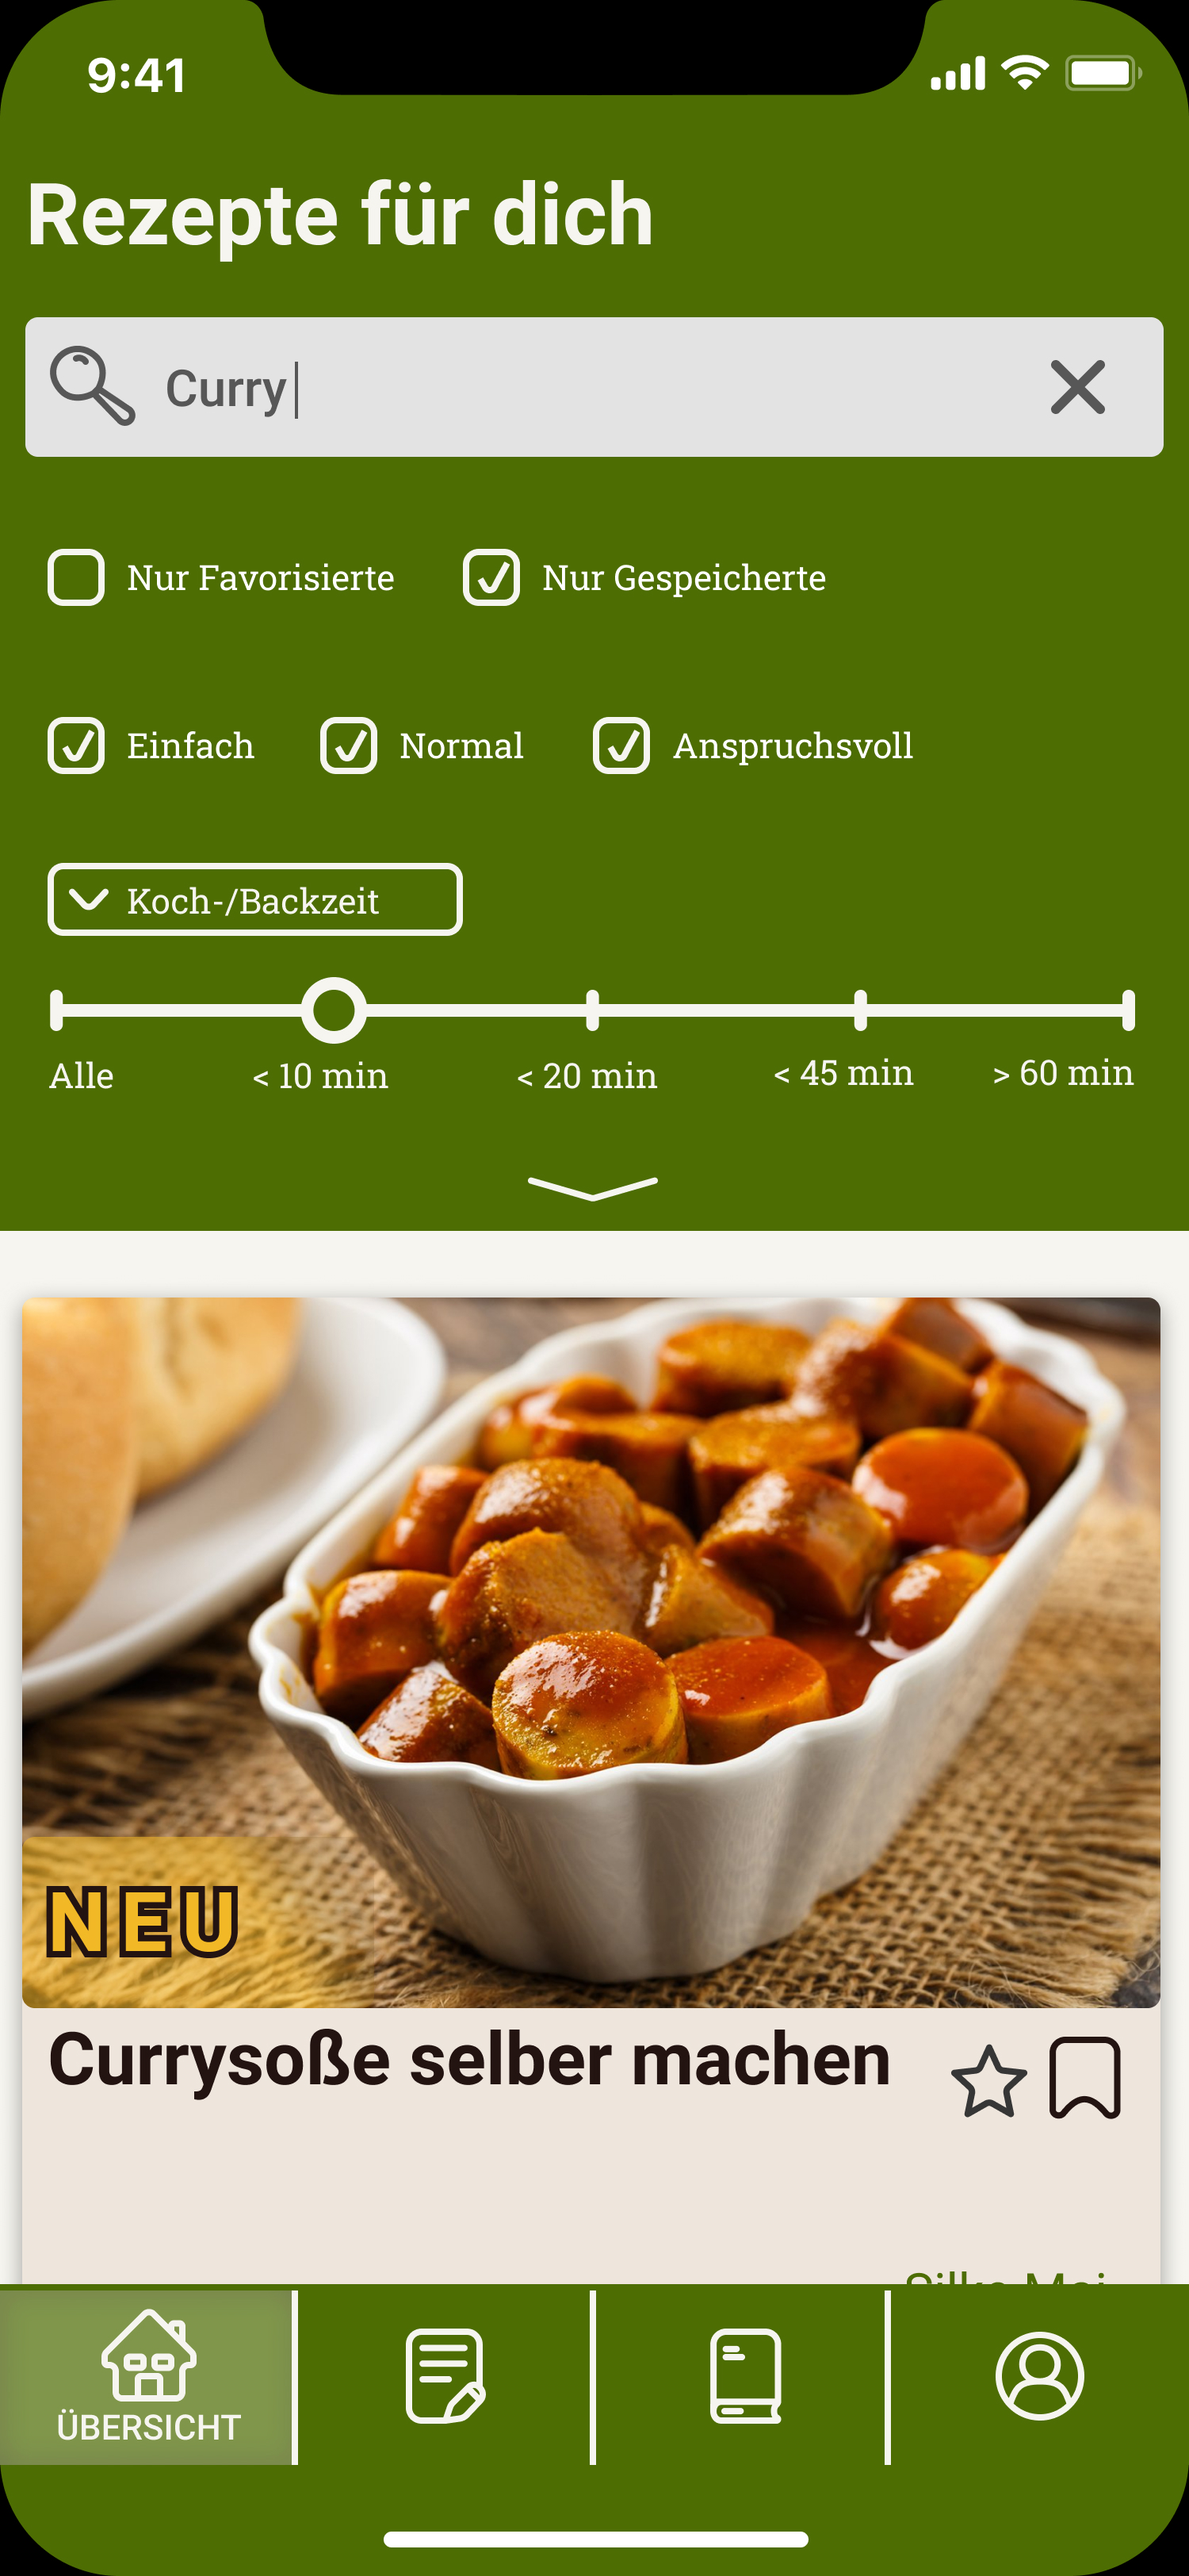
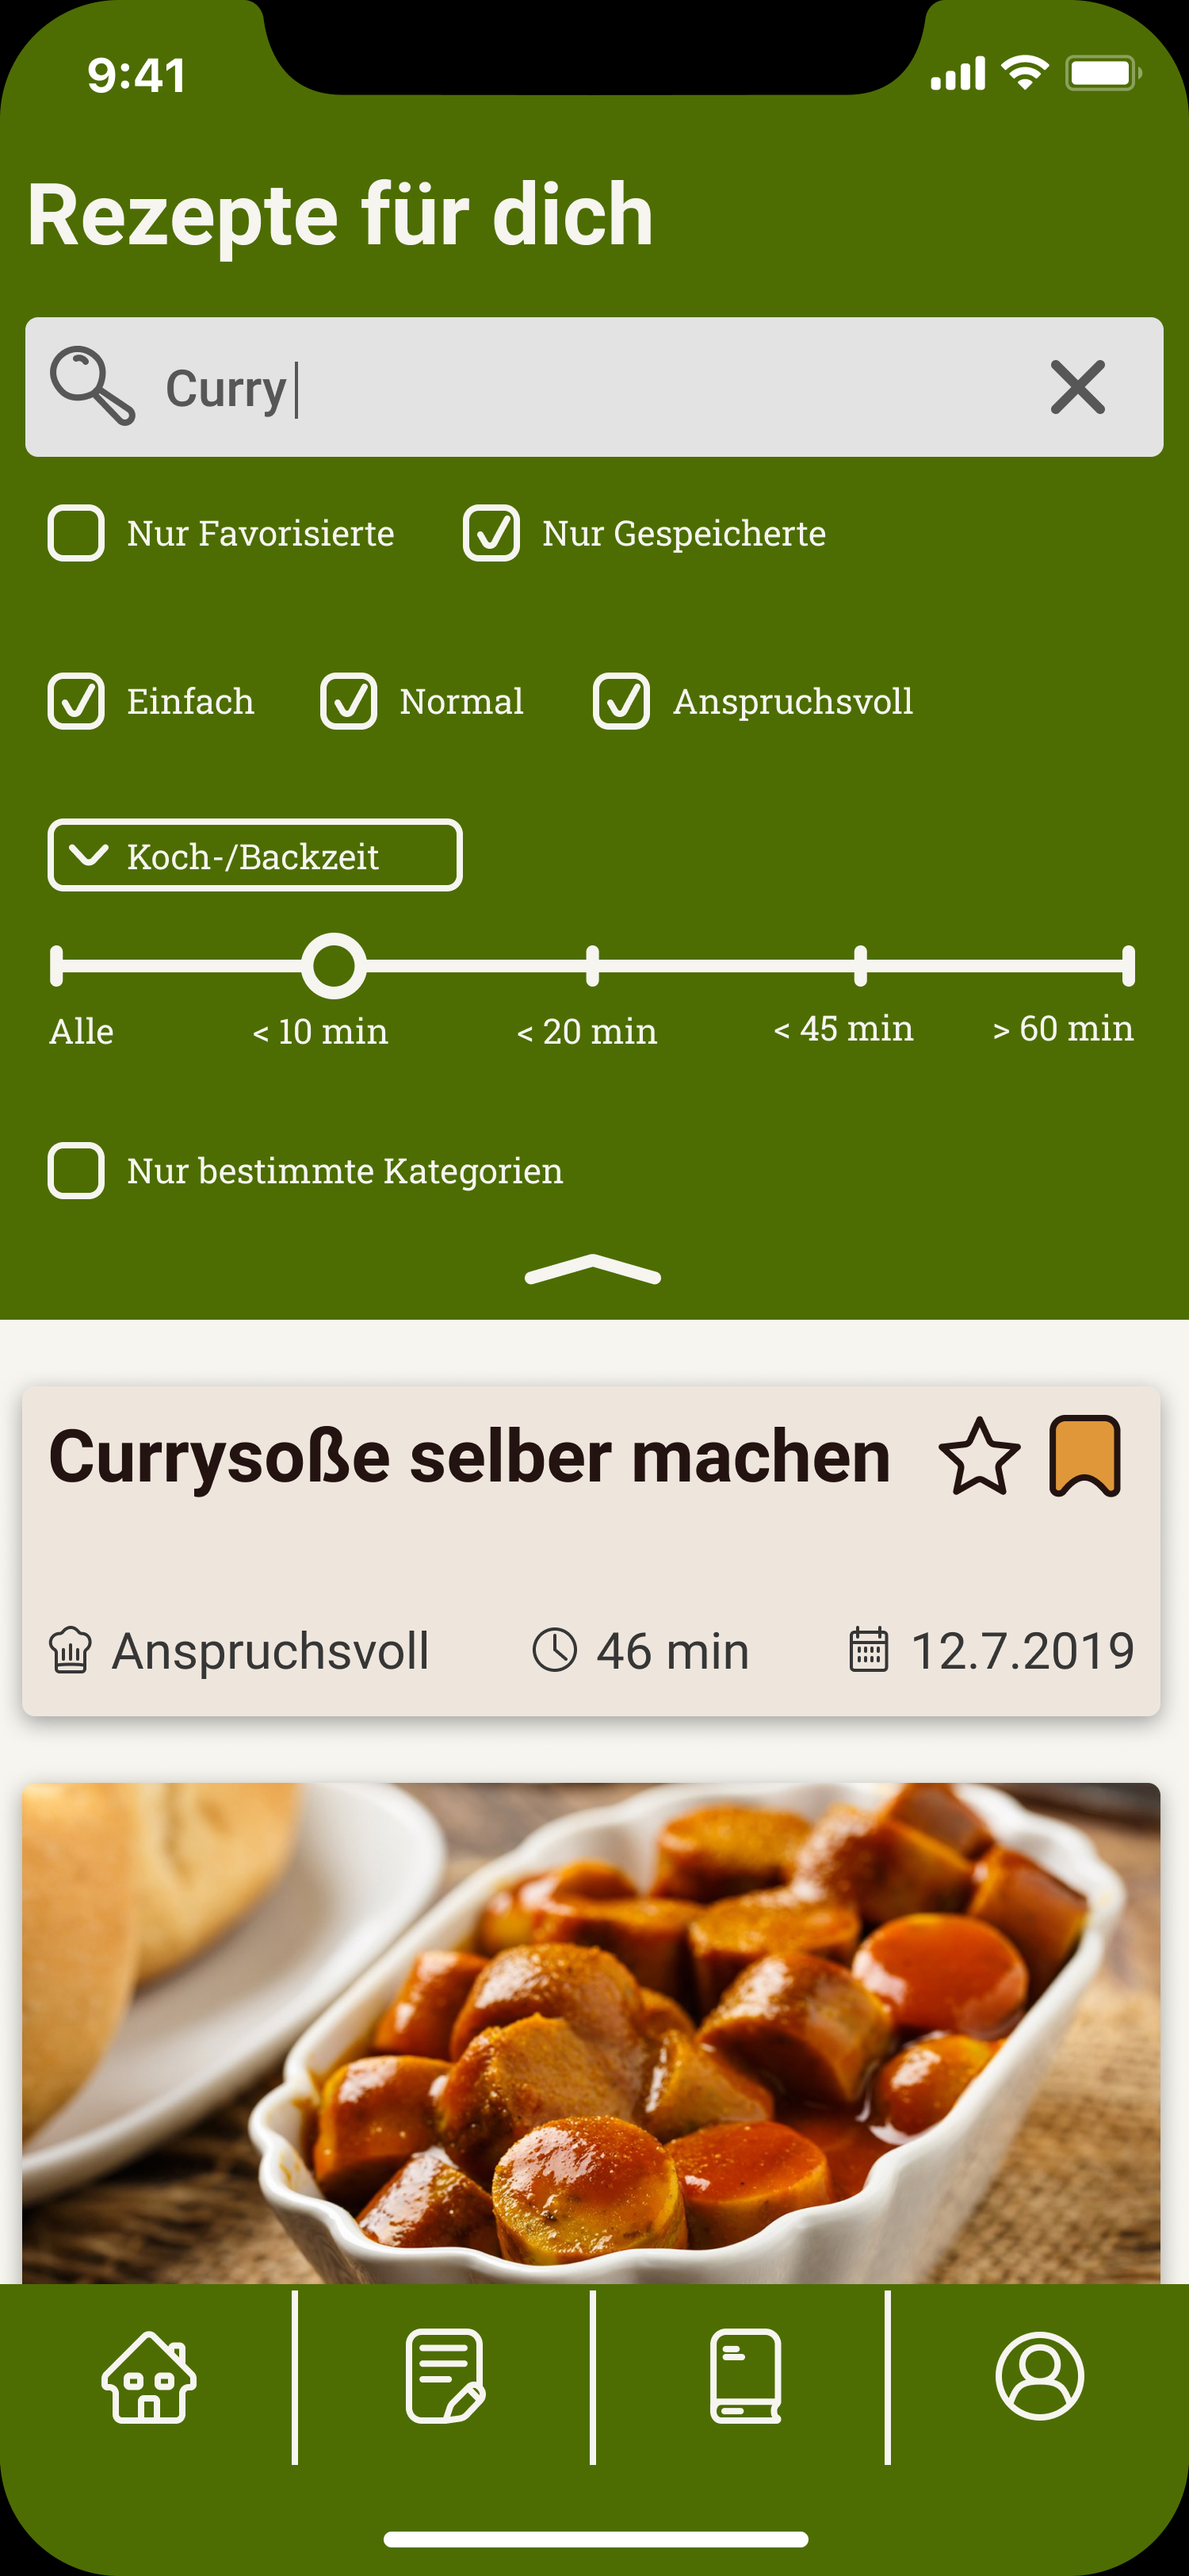
[FEATURE] Add new filter to mock ups and clean up in said progress

diff --git a/Artefakte/Zeiterfassung/Arbeitsmatrix.md b/Artefakte/Zeiterfassung/Arbeitsmatrix.md
@@ -114,7 +114,9 @@
 | 22       | Interface Design     | MockUps                                           | [FEATURE]       | MockUps Rezept Filter                                            | 03.07.21        | 12.06.21            |                 | 2,00            |
 | 18       | Konzeptuelles Design | Content Map                                       | [FEATURE]       | Filterarten bestimmen und konzipieren                            | 03.07.21        | 12.06.21            |                 | 1,25            |
 |          |                      |                                                   |                 |                                                                  |                 |                     |                 |                 |
-|          | Stunden insgesamt    | 266,75                                            | Stunden Seminar | 55                                                               | Stunden Projekt | 211,75              |                 |                 |
-|          |                      |                                                   | Budget:         | 80                                                               | Budget:         | 103,25              |                 |                 |
-|          | Kredits erreicht:    | 9                                                 |                 |                                                                  |                 |                     |                 |                 |
+| 18       | Konzeptuelles Design | Content Map                                       | [FEATURE]       | Filterarten bestimmen und konzipieren                            | 05.07.21        | 12.06.21            |                 | 3,50            |
+|          |                      |                                                   |                 |                                                                  |                 |                     |                 |                 |
+|          | Stunden insgesamt    | 270,25                                            | Stunden Seminar | 55                                                               | Stunden Projekt | 215,25              |                 |                 |
+|          |                      |                                                   | Budget:         | 80                                                               | Budget:         | 99,75               |                 |                 |
+|          | Kredits erreicht:    | 10                                                |                 |                                                                  |                 |                     |                 |                 |
 |          | Kredits erfordert:   | 15                                                |
